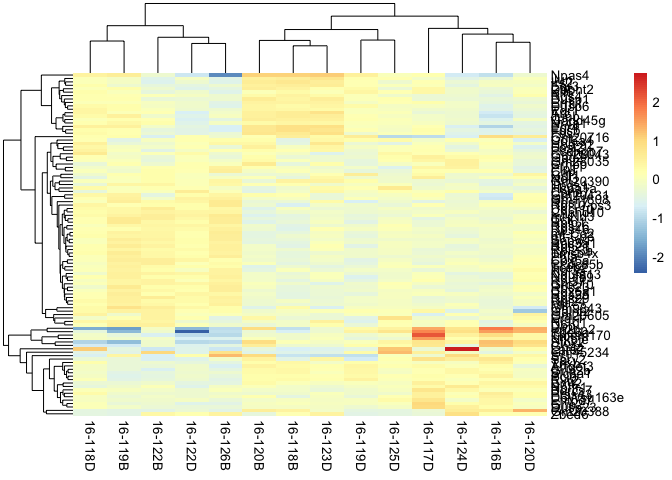
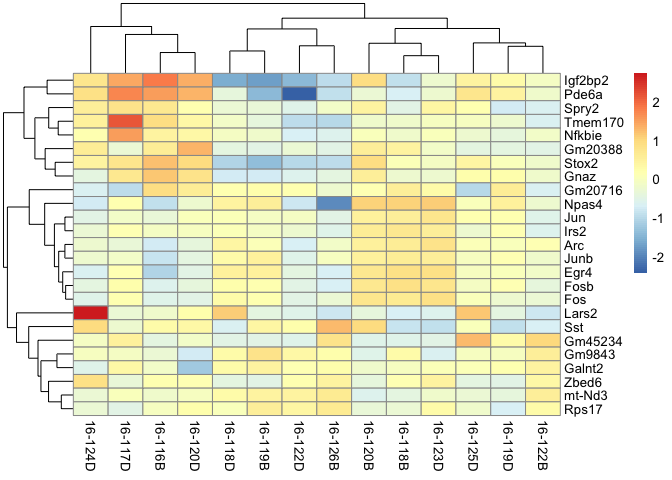
new files

diff --git a/bin/FMR1.md b/bin/FMR1.md
@@ -954,7 +954,7 @@ pca plot
 
     library("genefilter")
     library("pheatmap")
-    topVarGenes <- head(order(rowVars(assay(rld)),decreasing=TRUE),100)
+    topVarGenes <- head(order(rowVars(assay(rld)),decreasing=TRUE),25)
     mat <- assay(rld)[ topVarGenes, ]
     mat <- mat - rowMeans(mat)
     df <- as.data.frame(colData(rld)[,c("Genotype")])
